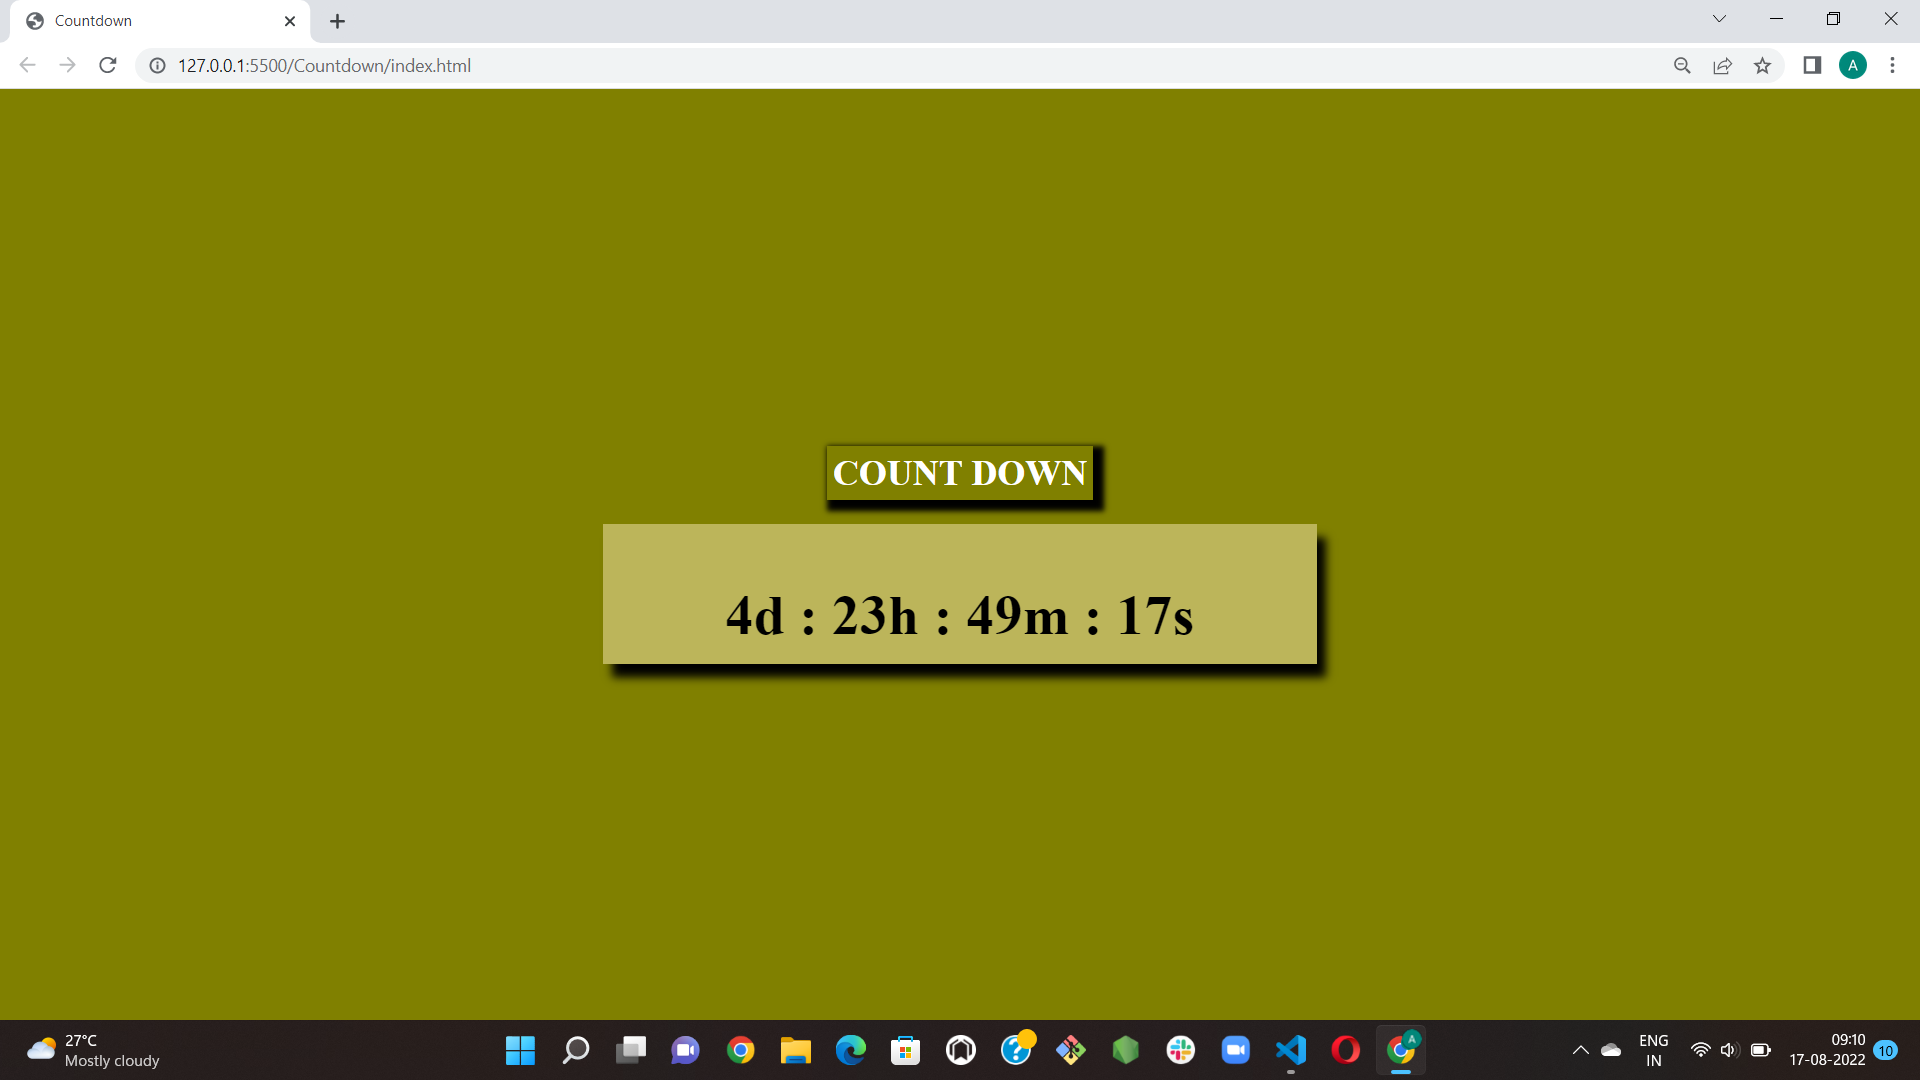
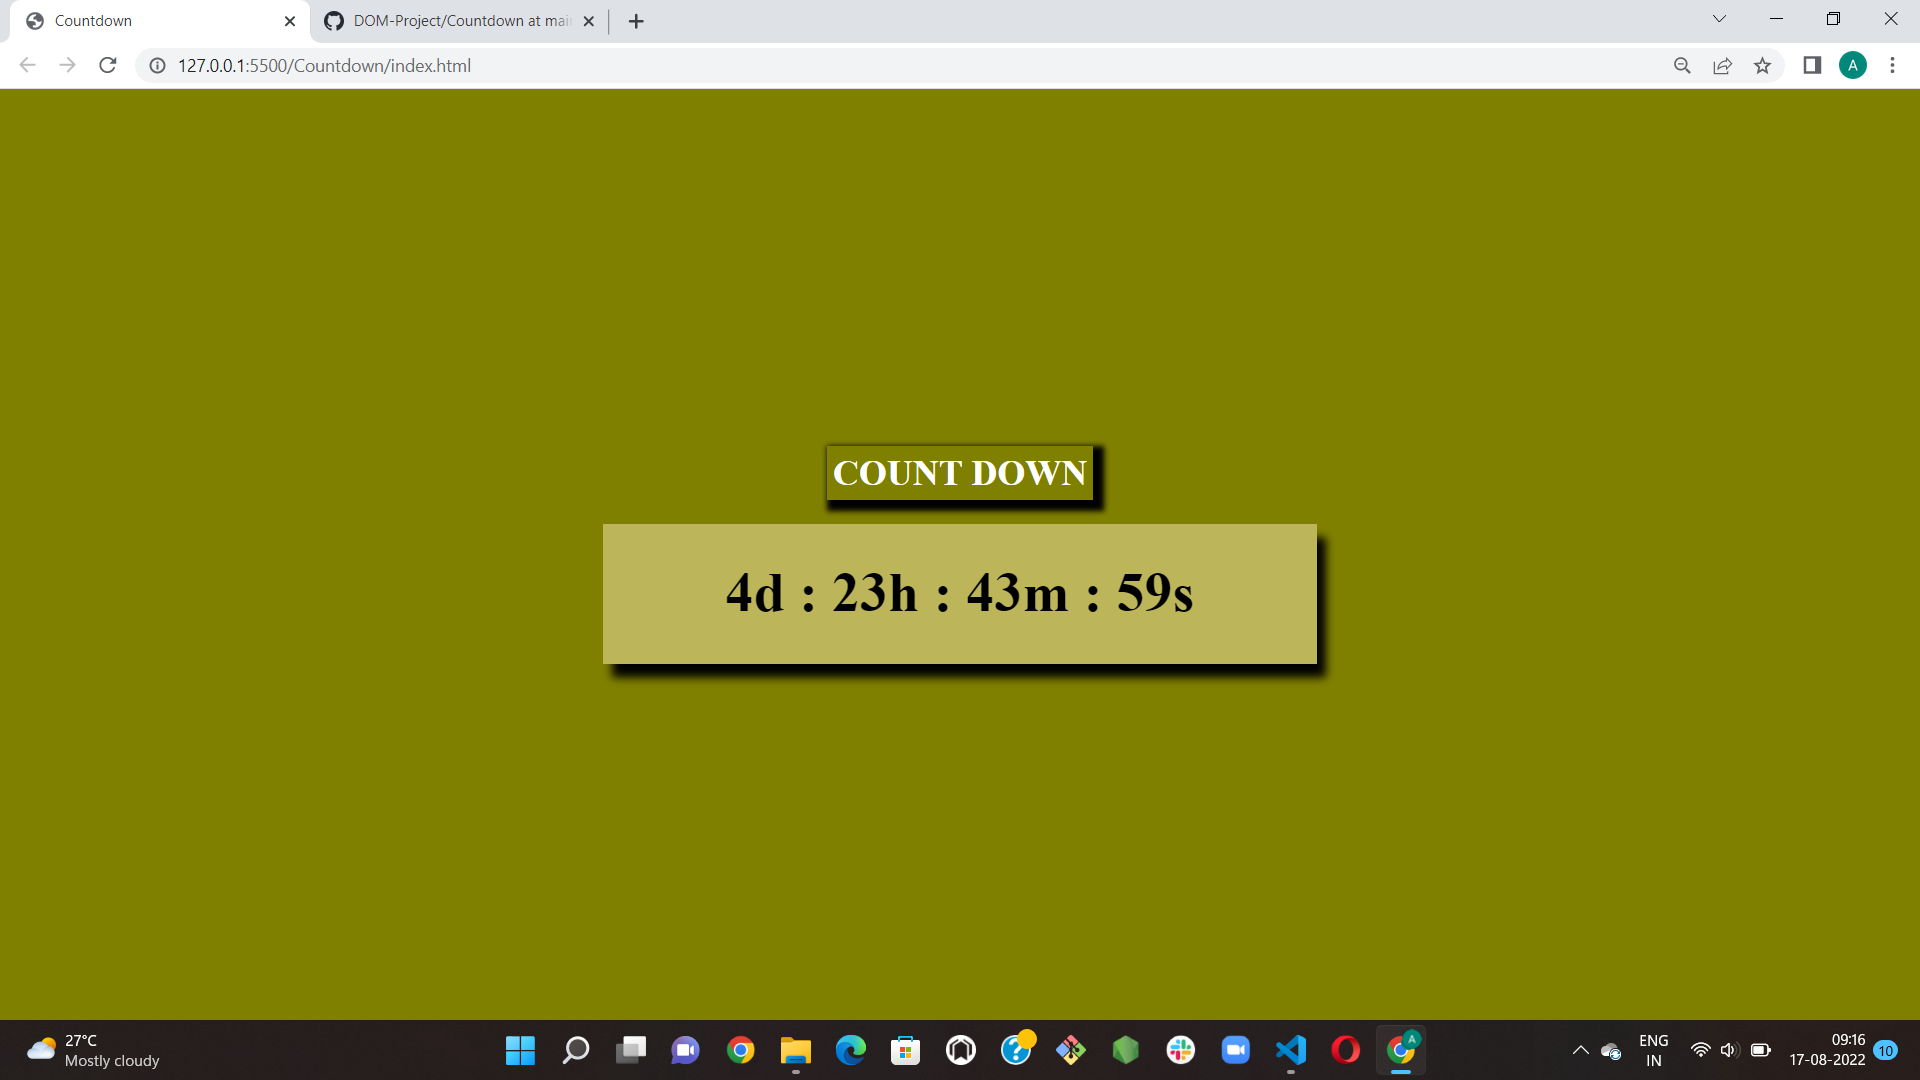
project

Changed region(s): [[0.375, 0.5194, 0.625, 0.6111], [0.1562, 0.0, 0.2812, 0.0306]]

diff --git a/Countdown/style.css b/Countdown/style.css
@@ -12,7 +12,7 @@ h1{
     text-transform: uppercase;
     font-weight: bold;
     box-shadow: 5px 5px 5px 5px black;
-    padding: 5px;
+    padding: 5px ;
 }
 .container{
     height: 100vh;
@@ -34,6 +34,6 @@ h1{
 }
 
 .count{
-    margin-top: 50px;
+    margin: 30px;
     font-size: 50px;
 }
